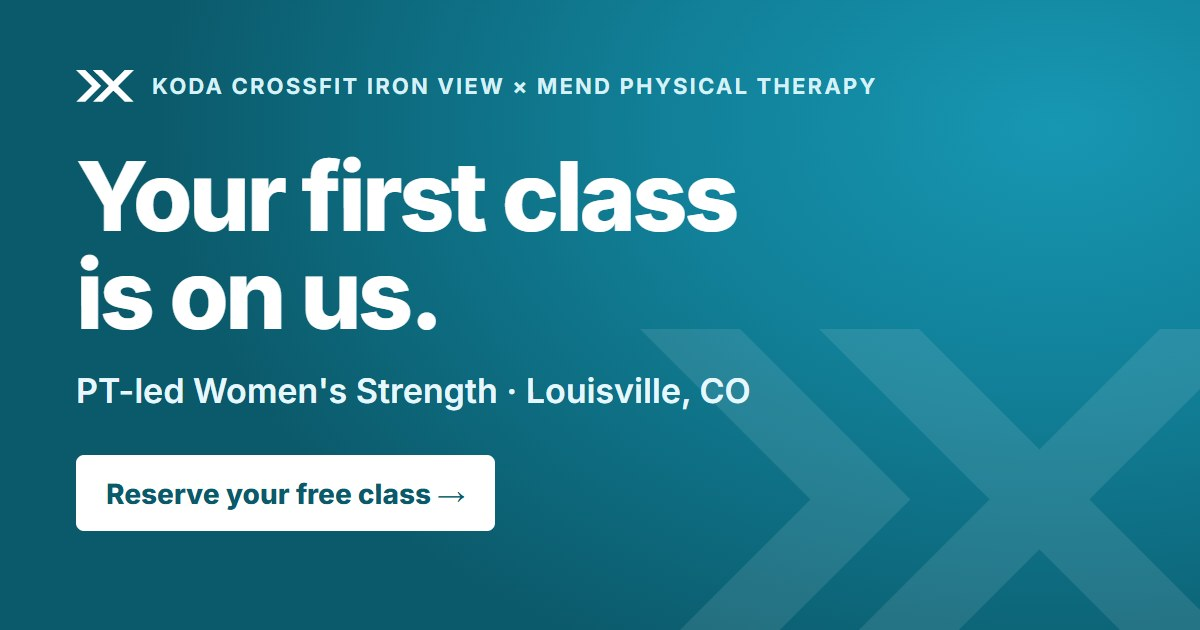
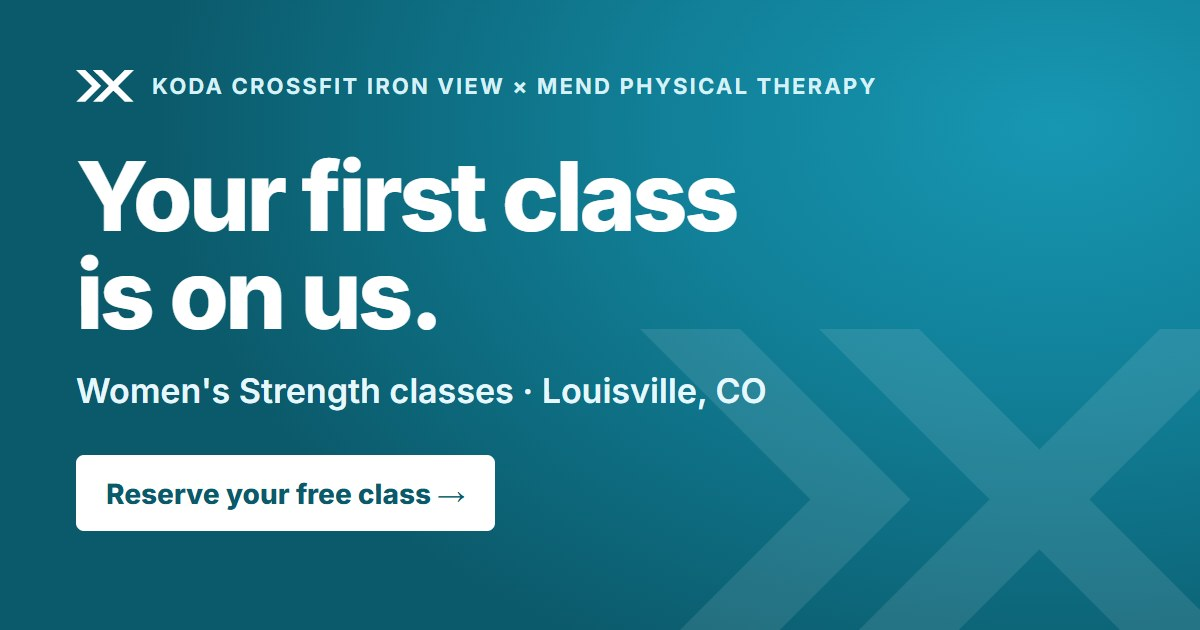
Say most classes have two coaches, usually incl. a Mend PT (not every class)
Rewords every spot that promised two coaches and a physical therapist in every class: hero, facts row, schedule note, About section, FAQ, footer, meta descriptions, calendar text and the link-preview image. Drops 'PT-led'.

Changed region(s): [[0.0617, 0.6032, 0.6475, 0.6635]]

diff --git a/index.html b/index.html
@@ -4,11 +4,11 @@
   <meta charset="UTF-8">
   <meta name="viewport" content="width=device-width, initial-scale=1.0, viewport-fit=cover">
   <title>Free Women's Strength Class | Koda CrossFit Iron View × Mend</title>
-  <meta name="description" content="PT-led strength training for women in Louisville, CO. Reserve your free Women's Strength class at Koda CrossFit Iron View, coached with Mend Physical Therapy.">
+  <meta name="description" content="Strength training for women in Louisville, CO. Reserve your free Women's Strength class at Koda CrossFit Iron View, in partnership with Mend Physical Therapy.">
   <meta name="theme-color" content="#117F97">
   <meta property="og:type" content="website">
   <meta property="og:title" content="Your first Women's Strength class is free">
-  <meta property="og:description" content="PT-led strength training for women at Koda CrossFit Iron View in Louisville, coached with Mend Physical Therapy. Reserve your free class.">
+  <meta property="og:description" content="Strength training for women at Koda CrossFit Iron View in Louisville, in partnership with Mend Physical Therapy. Reserve your free class.">
   <meta property="og:image" content="https://koda-crossfit.github.io/womens/assets/og-womens.jpg">
   <meta property="og:url" content="https://koda-crossfit.github.io/womens/">
   <meta name="twitter:card" content="summary_large_image">
@@ -447,9 +447,9 @@
     <img class="hero-img" src="https://www.mendcolorado.com/wp-content/uploads/2025/05/Womens-Strength-50-scaled.webp" alt="" fetchpriority="high">
     <div class="hero-shade"></div>
     <div class="wrap hero-in">
-      <p class="eyebrow"><i aria-hidden="true"></i>Women's Strength · PT-led with Mend</p>
+      <p class="eyebrow"><i aria-hidden="true"></i>Women's Strength · Koda × Mend</p>
       <h1>Your first class is on us.</h1>
-      <p class="lead">Strength training for women, coached by a physical therapist and an expert trainer. Join us at Koda CrossFit Iron View in Louisville — every age and experience level is welcome.</p>
+      <p class="lead">Strength training for women at Koda CrossFit Iron View in Louisville. Most classes have two coaches, usually including a physical therapist from Mend — and every age and experience level is welcome.</p>
       <div class="cta-row">
         <a class="btn btn-primary btn-lg" href="#reserve">Reserve my free class <span class="arr" aria-hidden="true">→</span></a>
         <a class="btn btn-ghost btn-lg" href="#about">About the class</a>
@@ -457,7 +457,7 @@
       <ul class="hero-facts">
         <li><strong>Tue · Thu · Fri</strong><span>Mornings &amp; afternoons</span></li>
         <li><strong>60 minutes</strong><span>Strength + intervals</span></li>
-        <li><strong>PT + coach</strong><span>In every class</span></li>
+        <li><strong>Two coaches</strong><span>In most classes</span></li>
         <li><strong>Louisville, CO</strong><span>740 S Pierce Ave</span></li>
       </ul>
     </div>
@@ -500,7 +500,7 @@
               <button type="button" id="prevWeek">← Previous week</button>
               <button type="button" id="nextWeek">Next week →</button>
             </div>
-            <p class="sched-note">Women's Strength at Koda CrossFit Iron View, 740 S Pierce Ave #5, Louisville. Each class is coached by a Mend physical therapist and a strength coach.</p>
+            <p class="sched-note">Women's Strength at Koda CrossFit Iron View, 740 S Pierce Ave #5, Louisville. Most classes have two coaches, usually a strength coach and a physical therapist from Mend.</p>
           </div>
         </div>
 
@@ -582,14 +582,14 @@
       <div>
         <div class="section-head">
           <span class="kicker">About the class</span>
-          <h2>Strength training, guided by a physical therapist</h2>
-          <p>This isn't a typical gym class. Every session pairs a board-certified physical therapist from Mend with an experienced strength coach, so you can lift with confidence — whether you're brand new, returning after an injury, or working around aches and pains.</p>
+          <h2>Strength training, backed by physical therapists</h2>
+          <p>This isn't a typical gym class. Most sessions have two coaches — an experienced strength coach and, usually, a board-certified physical therapist from Mend — so you can lift with confidence, whether you're brand new, returning after an injury, or working around aches and pains.</p>
         </div>
         <div class="features">
           <div class="feature">
             <div class="ic"><svg viewBox="0 0 24 24" fill="none" stroke="currentColor" stroke-width="2" stroke-linecap="round" stroke-linejoin="round" aria-hidden="true"><path d="M16 21v-2a4 4 0 0 0-4-4H6a4 4 0 0 0-4 4v2"/><circle cx="9" cy="7" r="4"/><path d="M22 21v-2a4 4 0 0 0-3-3.87"/><path d="M16 3.13a4 4 0 0 1 0 7.75"/></svg></div>
-            <h3>Two coaches, every class</h3>
-            <p>A physical therapist and a strength coach watch your form and adjust each movement for you.</p>
+            <h3>Extra eyes on your form</h3>
+            <p>Most classes have two coaches, usually including a Mend physical therapist, to watch your form and adjust each movement for you.</p>
           </div>
           <div class="feature">
             <div class="ic"><svg viewBox="0 0 24 24" fill="none" stroke="currentColor" stroke-width="2" stroke-linecap="round" stroke-linejoin="round" aria-hidden="true"><path d="M6.5 6.5v11M17.5 6.5v11M3.5 9v6M20.5 9v6M6.5 12h11"/></svg></div>
@@ -621,7 +621,7 @@
       <div class="section-head center">
         <span class="kicker">Your coaches</span>
         <h2>Meet the team behind the class</h2>
-        <p>Women's Strength at Koda is led by Mend's physical therapists and coaches.</p>
+        <p>Women's Strength at Koda is taught by Mend's team of physical therapists and coaches.</p>
       </div>
       <div class="coaches">
         <article class="coach">
@@ -689,10 +689,10 @@
       <div class="faq-list">
         <details><summary>Is my first class really free?</summary><div class="ans"><p>Yes. Your first Women's Strength class is completely free — no payment info and no commitment. It's one free class per person.</p></div></details>
         <details><summary>I've never lifted weights. Is this class for me?</summary><div class="ans"><p>Absolutely. Our classes include women of every age, ability and body type, and plenty of them had never lifted before their first class. Your coaches teach every movement and scale it to you.</p></div></details>
-        <details><summary>I have an injury or chronic pain. Can I still join?</summary><div class="ans"><p>Yes — that's exactly why a physical therapist coaches every class. Tell us what's going on in your intake form and your coaches will adapt the movements for you.</p><p>Prefer to talk it through first? You can book a visit with Mend at <a href="tel:+17207726780">(720) 772-6780</a>.</p></div></details>
+        <details><summary>I have an injury or chronic pain. Can I still join?</summary><div class="ans"><p>Yes — that's a big part of why this class exists. A physical therapist from Mend usually coaches alongside your trainer, and your coaches will adapt the movements for you. Share what's going on in your intake form so they're ready.</p><p>Prefer to talk it through first? You can book a visit with Mend at <a href="tel:+17207726780">(720) 772-6780</a>.</p></div></details>
         <details><summary>What should I bring?</summary><div class="ans"><p>Comfortable workout clothes, athletic shoes and a water bottle. All the equipment is provided.</p></div></details>
         <details><summary>What happens when I arrive?</summary><div class="ans"><p>Come 5–10 minutes early and introduce yourself to the coaches — they'll know you're coming. They'll have you sign a waiver, show you around the gym and get you set up for class.</p></div></details>
-        <details><summary>How big are the classes?</summary><div class="ans"><p>Classes are capped at 20 people with two coaches, so everyone gets attention and personal feedback.</p></div></details>
+        <details><summary>How big are the classes?</summary><div class="ans"><p>Classes are capped at 20 people, and most have two coaches, so everyone gets attention and personal feedback.</p></div></details>
         <details><summary>How do I change or cancel my reservation?</summary><div class="ans"><p>To change your class, come back to this page and reserve a new time with the same email — it replaces your current reservation. To cancel, just reply to your confirmation email.</p></div></details>
         <details><summary>What happens after my free class?</summary><div class="ans"><p>If you love it, choose a plan that fits your week — see <a href="#plans">pricing</a>. We recommend two classes a week for the best results.</p></div></details>
       </div>
@@ -718,7 +718,7 @@
             <span class="div" aria-hidden="true"></span>
             <svg class="kx" viewBox="0 0 1961 1078" aria-hidden="true"><use href="#kx"/></svg>
           </div>
-          <p>PT-led Women's Strength classes, a partnership between Mend Physical Therapy and Koda CrossFit Iron View.</p>
+          <p>Women's Strength classes, a partnership between Mend Physical Therapy and Koda CrossFit Iron View.</p>
         </div>
         <div>
           <h4>Class location</h4>
@@ -784,7 +784,7 @@
     var GYM_NAME = 'Koda CrossFit Iron View';
     var GYM_ADDRESS = '740 S Pierce Ave #5, Louisville, CO 80027';
     var EVENT_TITLE = "Women's Strength — free class (Koda × Mend)";
-    var EVENT_DETAILS = "Your free Women's Strength class at Koda CrossFit Iron View, coached with Mend Physical Therapy. " +
+    var EVENT_DETAILS = "Your free Women's Strength class at Koda CrossFit Iron View, in partnership with Mend Physical Therapy. " +
       'Arrive 5–10 minutes early and introduce yourself to your coaches. Questions? Call Mend at (720) 772-6780.';
     var EMAIL_RE = /^[^\s@]+@[^\s@]+\.[^\s@]+$/;
 

diff --git a/tools/build_assets.js b/tools/build_assets.js
@@ -34,7 +34,7 @@ const og = `<!doctype html><html><head><meta charset="utf-8">
   <div class="wrap">
     <div class="top"><svg viewBox="0 0 1961 1078"><path fill="#fff" d="${KX}"/></svg>Koda CrossFit Iron View × Mend Physical Therapy</div>
     <h1>Your first class<br>is on us.</h1>
-    <div class="sub">PT-led Women's Strength · Louisville, CO</div>
+    <div class="sub">Women's Strength classes · Louisville, CO</div>
     <div class="pill">Reserve your free class →</div>
   </div>
 </body></html>`;

diff --git a/README.md b/README.md
@@ -2,7 +2,7 @@
 
 **Live at https://koda-crossfit.github.io/womens/** (repo Koda-CrossFit/womens, GitHub Pages from `main`; a push deploys in about a minute).
 
-A one-page site where a new client reserves **one free Women's Strength class** at Koda CrossFit Iron View. The class is PT-led with Mend Physical Therapy, and the page uses Mend's look (teal `#117F97`, navy `#122857`, light blue `#E6F7FE`, Inter). The Mend logo and the class/coach photos load straight from mendcolorado.com.
+A one-page site where a new client reserves **one free Women's Strength class** at Koda CrossFit Iron View. The class is run in partnership with Mend Physical Therapy (most classes have two coaches, usually including a Mend physical therapist — never promise a PT at every class), and the page uses Mend's look (teal `#117F97`, navy `#122857`, light blue `#E6F7FE`, Inter). The Mend logo and the class/coach photos load straight from mendcolorado.com.
 
 ## How it works
 
